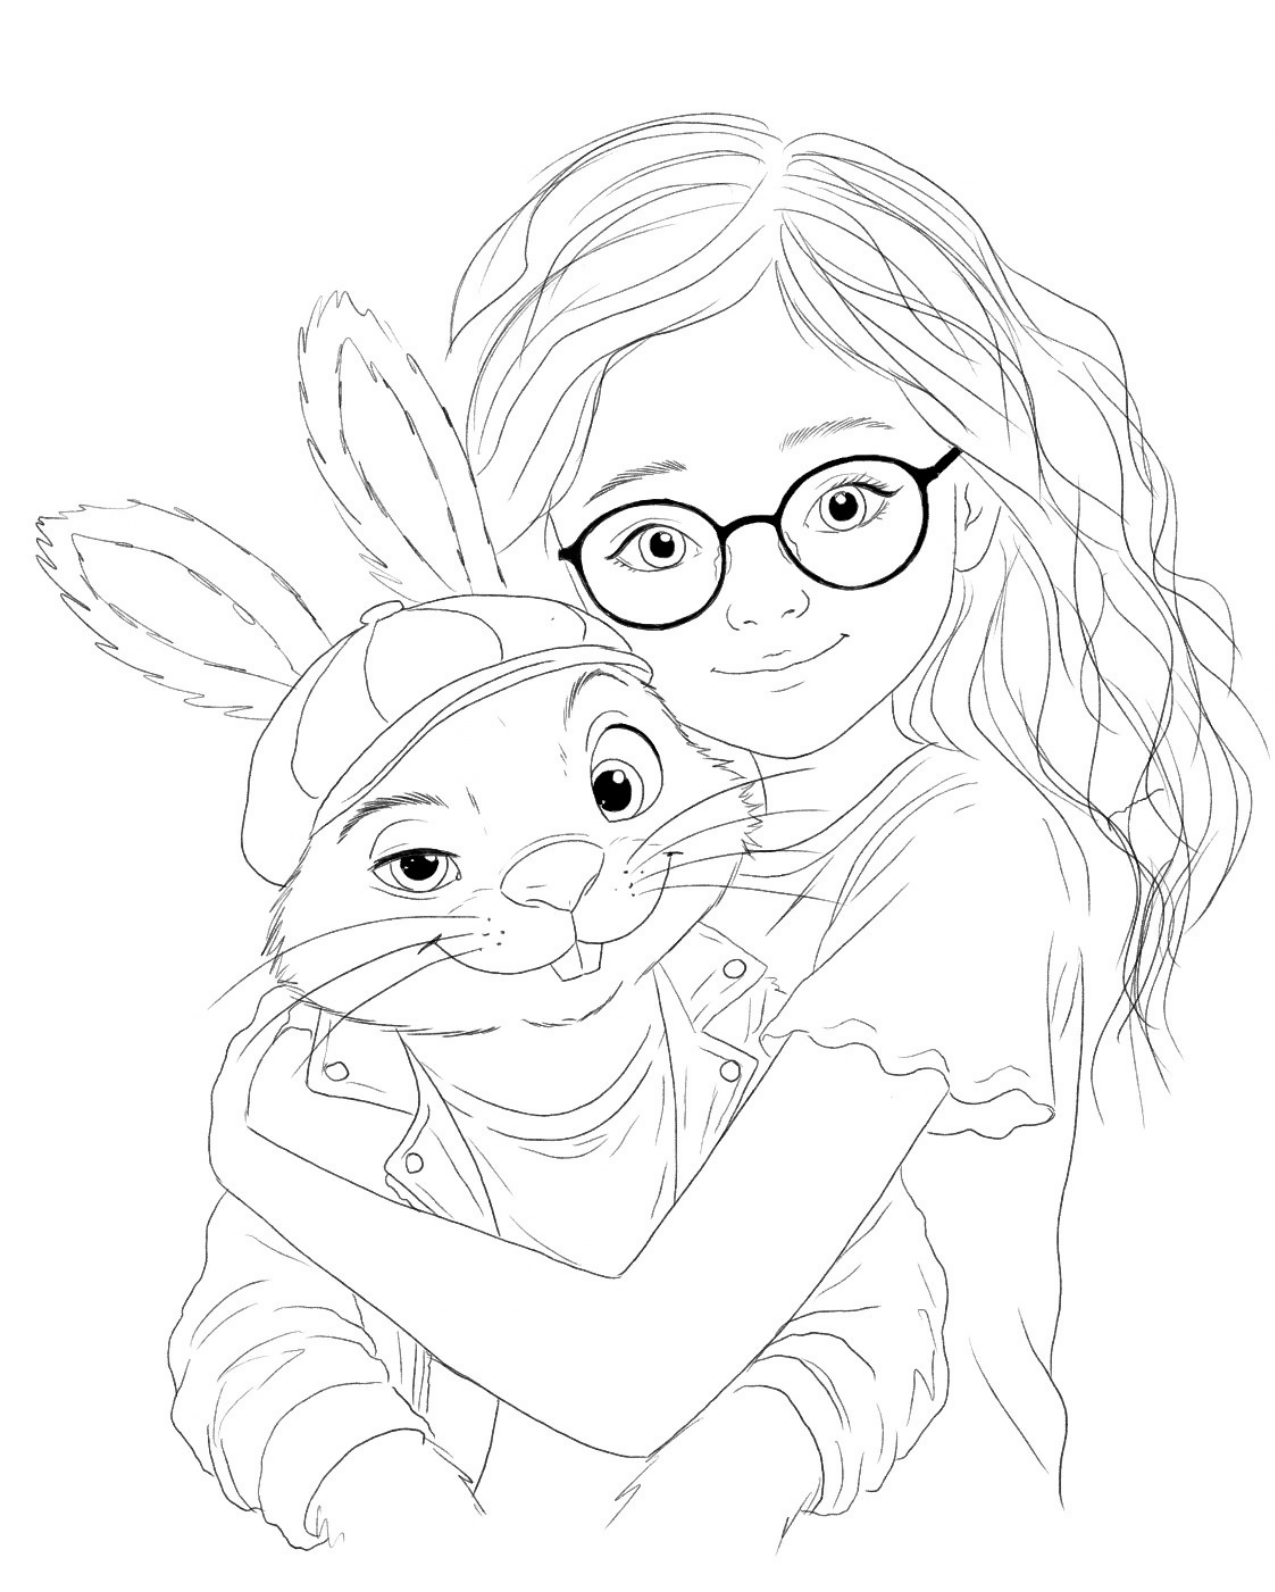
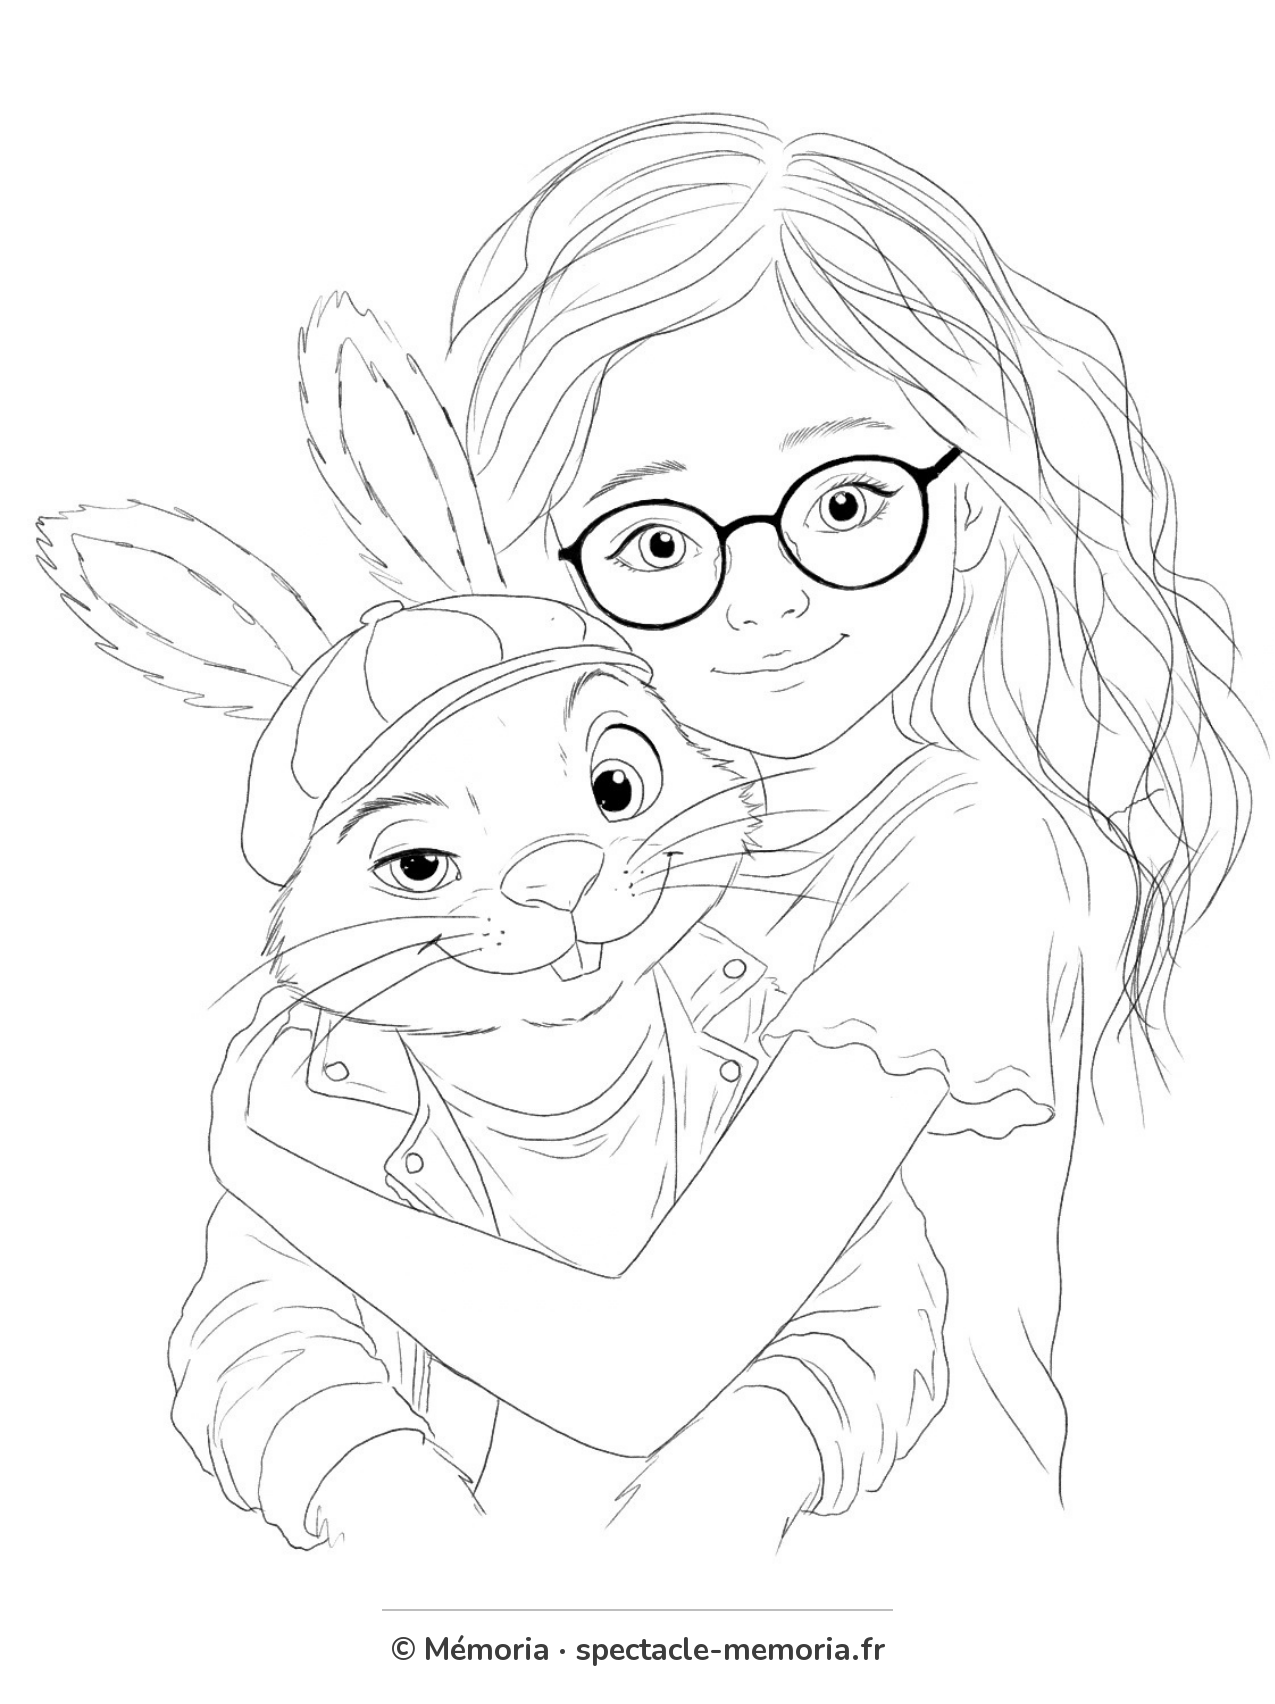
Coloriages : ajoute « © Mémoria · spectacle-memoria.fr » en bas de chaque coloriage téléchargeable

diff --git a/galerie.html b/galerie.html
@@ -138,32 +138,32 @@
         <!-- ===== Onglet 3 : coloriages à imprimer ===== -->
         <div class="gallery gallery-panel" id="panel-coloriages" role="tabpanel" aria-labelledby="tab-coloriages" data-tab-panel="coloriages" hidden>
           <div class="coloriage-card">
-            <button class="gallery__item reveal" type="button" data-full="assets/images/coloriage-pompon-moto.png" data-caption="Pompon sur sa moto">
-              <span class="shot" style="aspect-ratio:5/6"><img src="assets/images/coloriage-pompon-moto.png" alt="Coloriage à imprimer : Pompon le lapin, casquette et lunettes de soleil, sur sa moto" loading="lazy"></span>
+            <button class="gallery__item reveal" type="button" data-full="assets/images/coloriage-pompon-moto.png?v=2" data-caption="Pompon sur sa moto">
+              <span class="shot" style="aspect-ratio:7/9"><img src="assets/images/coloriage-pompon-moto.png?v=2" alt="Coloriage à imprimer : Pompon le lapin, casquette et lunettes de soleil, sur sa moto" loading="lazy"></span>
               <span class="gallery__cap">Pompon sur sa moto</span>
             </button>
-            <a class="coloriage-card__dl" href="assets/images/coloriage-pompon-moto.png" download>Télécharger pour imprimer <span aria-hidden="true">⤓</span></a>
+            <a class="coloriage-card__dl" href="assets/images/coloriage-pompon-moto.png?v=2" download="coloriage-pompon-moto.png">Télécharger pour imprimer <span aria-hidden="true">⤓</span></a>
           </div>
           <div class="coloriage-card">
-            <button class="gallery__item reveal" type="button" style="--reveal-delay:80ms" data-full="assets/images/coloriage-pompon-et-marie.png" data-caption="Pompon et Marie">
-              <span class="shot" style="aspect-ratio:4/5"><img src="assets/images/coloriage-pompon-et-marie.png" alt="Coloriage à imprimer : Marie, lunettes rondes, qui serre Pompon le lapin dans ses bras" loading="lazy"></span>
+            <button class="gallery__item reveal" type="button" style="--reveal-delay:80ms" data-full="assets/images/coloriage-pompon-et-marie.png?v=2" data-caption="Pompon et Marie">
+              <span class="shot" style="aspect-ratio:3/4"><img src="assets/images/coloriage-pompon-et-marie.png?v=2" alt="Coloriage à imprimer : Marie, lunettes rondes, qui serre Pompon le lapin dans ses bras" loading="lazy"></span>
               <span class="gallery__cap">Pompon et Marie</span>
             </button>
-            <a class="coloriage-card__dl" href="assets/images/coloriage-pompon-et-marie.png" download>Télécharger pour imprimer <span aria-hidden="true">⤓</span></a>
+            <a class="coloriage-card__dl" href="assets/images/coloriage-pompon-et-marie.png?v=2" download="coloriage-pompon-et-marie.png">Télécharger pour imprimer <span aria-hidden="true">⤓</span></a>
           </div>
           <div class="coloriage-card">
-            <button class="gallery__item reveal" type="button" style="--reveal-delay:160ms" data-full="assets/images/coloriage-ridedous-maison-jaune.png" data-caption="Les Ridédous réparent la maison jaune">
-              <span class="shot" style="aspect-ratio:5/4"><img src="assets/images/coloriage-ridedous-maison-jaune.png" alt="Coloriage à imprimer : deux Ridédous qui réparent le toit de la maison jaune" loading="lazy"></span>
+            <button class="gallery__item reveal" type="button" style="--reveal-delay:160ms" data-full="assets/images/coloriage-ridedous-maison-jaune.png?v=2" data-caption="Les Ridédous réparent la maison jaune">
+              <span class="shot" style="aspect-ratio:9/8"><img src="assets/images/coloriage-ridedous-maison-jaune.png?v=2" alt="Coloriage à imprimer : deux Ridédous qui réparent le toit de la maison jaune" loading="lazy"></span>
               <span class="gallery__cap">Les Ridédous réparent la maison jaune</span>
             </button>
-            <a class="coloriage-card__dl" href="assets/images/coloriage-ridedous-maison-jaune.png" download>Télécharger pour imprimer <span aria-hidden="true">⤓</span></a>
+            <a class="coloriage-card__dl" href="assets/images/coloriage-ridedous-maison-jaune.png?v=2" download="coloriage-ridedous-maison-jaune.png">Télécharger pour imprimer <span aria-hidden="true">⤓</span></a>
           </div>
           <div class="coloriage-card">
-            <button class="gallery__item reveal" type="button" style="--reveal-delay:240ms" data-full="assets/images/coloriage-ridedou.png" data-caption="Un Ridédou">
-              <span class="shot" style="aspect-ratio:2/3"><img src="assets/images/coloriage-ridedou.png" alt="Coloriage à imprimer : un Ridédou aux grands yeux et longues oreilles" loading="lazy"></span>
+            <button class="gallery__item reveal" type="button" style="--reveal-delay:240ms" data-full="assets/images/coloriage-ridedou.png?v=2" data-caption="Un Ridédou">
+              <span class="shot" style="aspect-ratio:5/8"><img src="assets/images/coloriage-ridedou.png?v=2" alt="Coloriage à imprimer : un Ridédou aux grands yeux et longues oreilles" loading="lazy"></span>
               <span class="gallery__cap">Un Ridédou</span>
             </button>
-            <a class="coloriage-card__dl" href="assets/images/coloriage-ridedou.png" download>Télécharger pour imprimer <span aria-hidden="true">⤓</span></a>
+            <a class="coloriage-card__dl" href="assets/images/coloriage-ridedou.png?v=2" download="coloriage-ridedou.png">Télécharger pour imprimer <span aria-hidden="true">⤓</span></a>
           </div>
         </div>
       </div>
